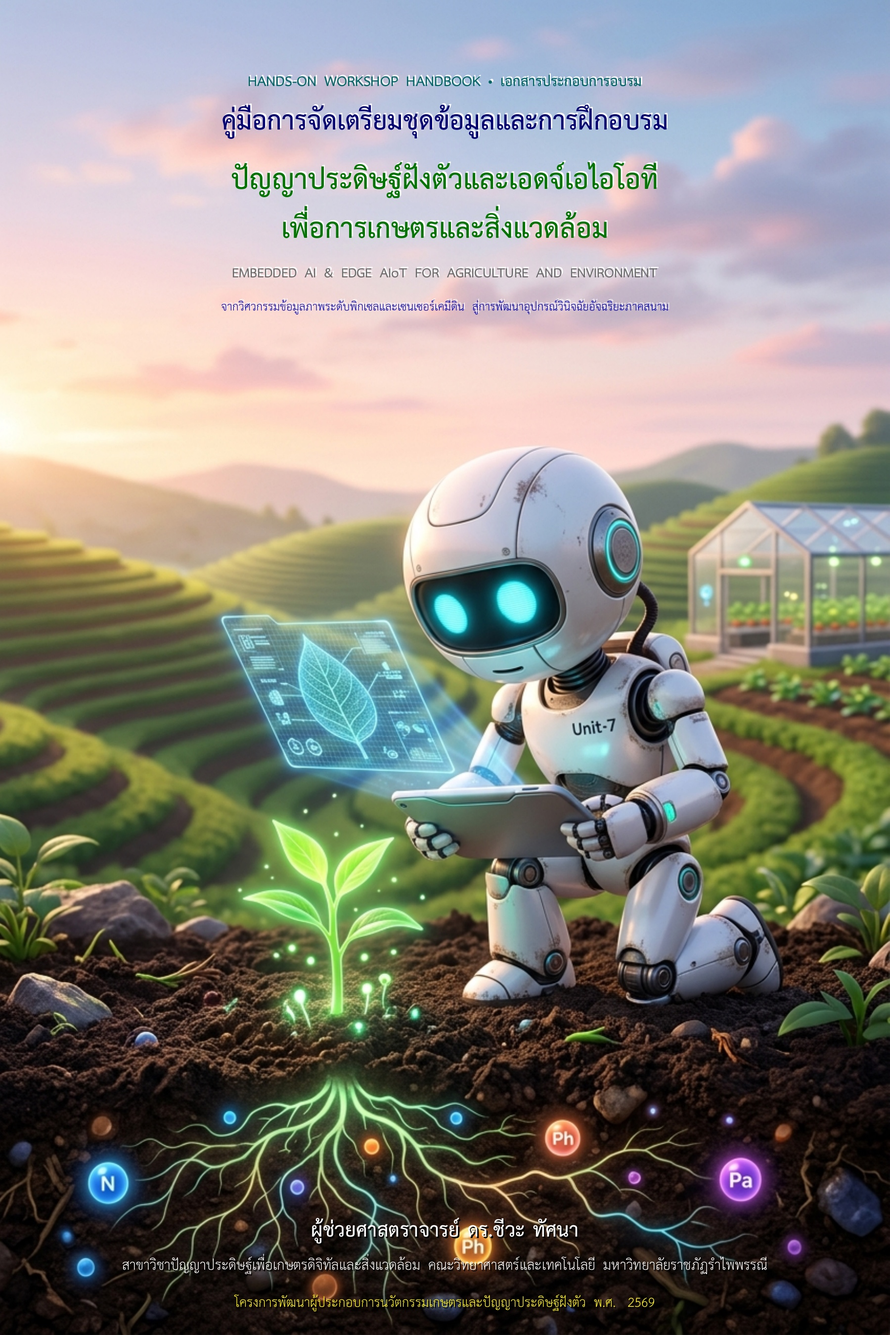
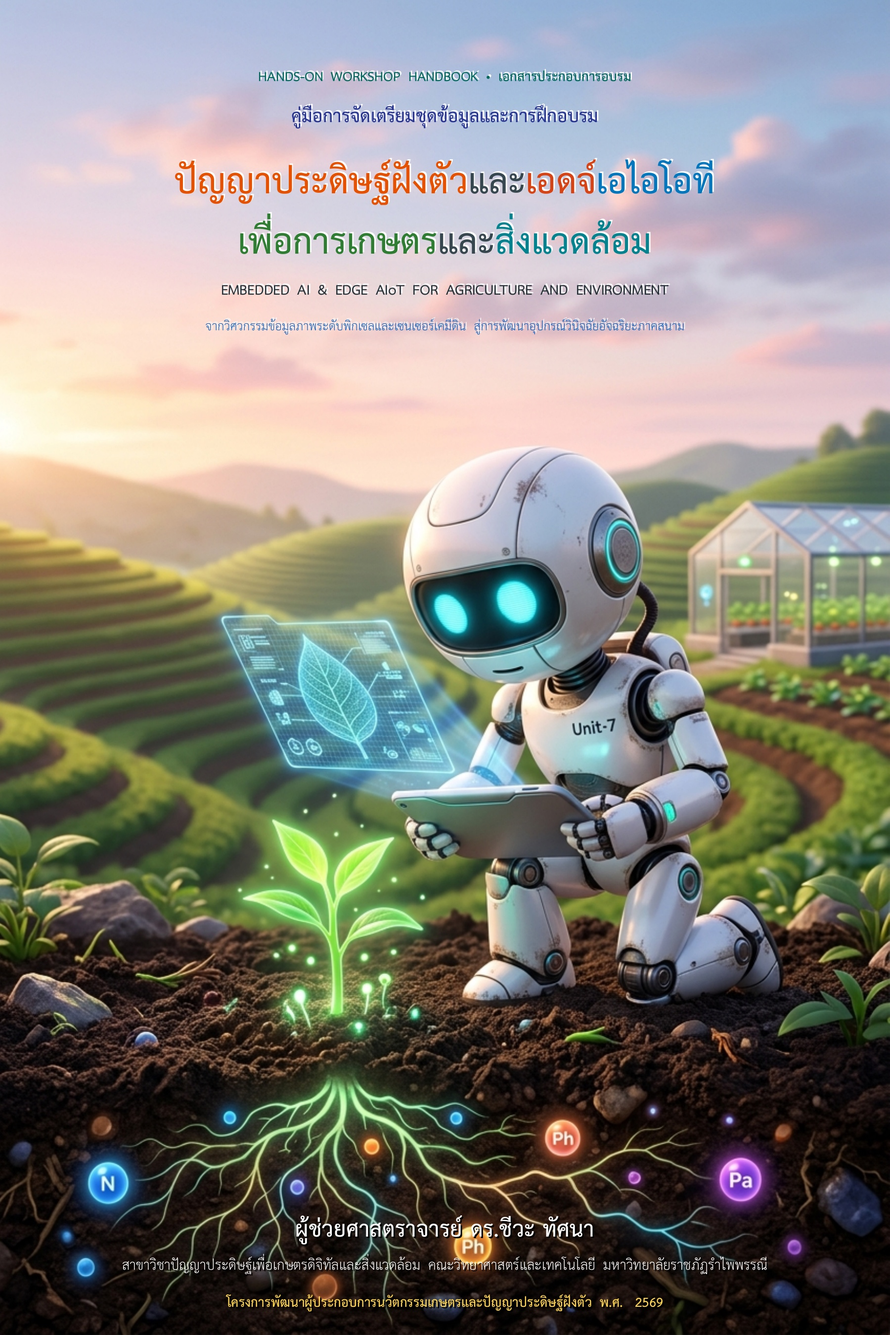
style(cover): resize series label -30%, enlarge main title with vibrant orange and multi-color palette, and balance typography proportions

diff --git a/latex_handbook/frontmatter/cover.tex b/latex_handbook/frontmatter/cover.tex
@@ -14,35 +14,38 @@
     };
 
     % 2. ข้อความชื่อเรื่องด้านบน (โปร่งใส ไม่มีกล่อง/พื้นหลัง พร้อมเงาเรืองแสงสีขาวเพื่อความคมชัด)
-    % ชั้นเงาสีขาวบางๆ ช่วยให้อ่านง่ายบนท้องฟ้าธรรมชาติ
-    \node[anchor=north, align=center, text width=5.2in] at ([xshift=0.6pt, yshift=-0.44in]current page.north) {
-        {\fontsize{8.5}{11}\selectfont\bfseries\color{white} HANDS-ON WORKSHOP HANDBOOK \textbullet\ เอกสารประกอบการอบรม}\\[7pt]
-        {\fontsize{16}{20}\selectfont\bfseries\color{white} คู่มือการจัดเตรียมชุดข้อมูลและการฝึกอบรม}\\[3pt]
-        {\fontsize{17}{22}\selectfont\bfseries\color{white} ปัญญาประดิษฐ์ฝังตัวและเอดจ์เอไอโอที\\[3pt]เพื่อการเกษตรและสิ่งแวดล้อม}\\[5pt]
-        {\fontsize{8}{10.5}\selectfont\bfseries\color{white} EMBEDDED AI \& EDGE AIoT FOR AGRICULTURE AND ENVIRONMENT}\\[2pt]
-        {\fontsize{7}{9}\selectfont\color{white!90} จากวิศวกรรมข้อมูลภาพระดับพิกเซลและเซนเซอร์เคมีดิน สู่การพัฒนาอุปกรณ์วินิจฉัยอัจฉริยะภาคสนาม}
+    % ชั้นเงาสีขาวบางๆ ช่วยให้อ่านง่ายบนท้องฟ้าธรรมชาติ (Shift 0.7pt)
+    \node[anchor=north, align=center, text width=5.3in] at ([xshift=0.7pt, yshift=-0.41in]current page.north) {
+        {\fontsize{8}{10.5}\selectfont\bfseries\color{white} HANDS-ON WORKSHOP HANDBOOK \textbullet\ เอกสารประกอบการอบรม}\\[6pt]
+        {\fontsize{11}{14}\selectfont\bfseries\color{white} คู่มือการจัดเตรียมชุดข้อมูลและการฝึกอบรม}\\[4pt]
+        {\fontsize{21.5}{26}\selectfont\bfseries\color{white} ปัญญาประดิษฐ์ฝังตัวและเอดจ์เอไอโอที\\[3pt]เพื่อการเกษตรและสิ่งแวดล้อม}\\[6pt]
+        {\fontsize{8.5}{11}\selectfont\bfseries\color{white} EMBEDDED AI \& EDGE AIoT FOR AGRICULTURE AND ENVIRONMENT}\\[3pt]
+        {\fontsize{7.5}{9.5}\selectfont\color{white} จากวิศวกรรมข้อมูลภาพระดับพิกเซลและเซนเซอร์เคมีดิน สู่การพัฒนาอุปกรณ์วินิจฉัยอัจฉริยะภาคสนาม}
     };
-    % ชั้นตัวอักษรจริง (สีน้ำเงินเข้มและสีเขียวมรกต)
-    \node[anchor=north, align=center, text width=5.2in] at ([yshift=-0.45in]current page.north) {
-        {\fontsize{8.5}{11}\selectfont\bfseries\color{teal!80!black} HANDS-ON WORKSHOP HANDBOOK \textbullet\ เอกสารประกอบการอบรม}\\[7pt]
-        {\fontsize{16}{20}\selectfont\bfseries\color{blue!45!black} คู่มือการจัดเตรียมชุดข้อมูลและการฝึกอบรม}\\[3pt]
-        {\fontsize{17}{22}\selectfont\bfseries\color{green!45!black} ปัญญาประดิษฐ์ฝังตัวและเอดจ์เอไอโอที\\[3pt]เพื่อการเกษตรและสิ่งแวดล้อม}\\[5pt]
-        {\fontsize{8}{10.5}\selectfont\bfseries\color{gray!85!black} EMBEDDED AI \& EDGE AIoT FOR AGRICULTURE AND ENVIRONMENT}\\[2pt]
-        {\fontsize{7}{9}\selectfont\color{blue!70!black} จากวิศวกรรมข้อมูลภาพระดับพิกเซลและเซนเซอร์เคมีดิน สู่การพัฒนาอุปกรณ์วินิจฉัยอัจฉริยะภาคสนาม}
+    % ชั้นตัวอักษรจริง (สีส้มสดใส และหลากสี สอดคล้องตามอัตลักษณ์เกษตรและสิ่งแวดล้อม)
+    \node[anchor=north, align=center, text width=5.3in] at ([yshift=-0.42in]current page.north) {
+        {\fontsize{8}{10.5}\selectfont\bfseries\color[HTML]{00695C} HANDS-ON WORKSHOP HANDBOOK \textbullet\ เอกสารประกอบการอบรม}\\[6pt]
+        {\fontsize{11}{14}\selectfont\bfseries\color[HTML]{283593} คู่มือการจัดเตรียมชุดข้อมูลและการฝึกอบรม}\\[4pt]
+        {\fontsize{21.5}{26}\selectfont\bfseries
+            {\color[HTML]{E65100}ปัญญาประดิษฐ์ฝังตัว}{\color[HTML]{37474F}และ}{\color[HTML]{D84315}เอดจ์}{\color[HTML]{0277BD}เอไอโอที}\\[3pt]
+            {\color[HTML]{2E7D32}เพื่อการเกษตร}{\color[HTML]{37474F}และ}{\color[HTML]{00838F}สิ่งแวดล้อม}
+        }\\[6pt]
+        {\fontsize{8.5}{11}\selectfont\bfseries\color[HTML]{263238} EMBEDDED AI \& EDGE AIoT FOR AGRICULTURE AND ENVIRONMENT}\\[3pt]
+        {\fontsize{7.5}{9.5}\selectfont\color[HTML]{1565C0} จากวิศวกรรมข้อมูลภาพระดับพิกเซลและเซนเซอร์เคมีดิน สู่การพัฒนาอุปกรณ์วินิจฉัยอัจฉริยะภาคสนาม}
     };
 
     % 3. ข้อความข้อมูลผู้แต่งด้านล่าง (โปร่งใส ไม่มีกล่อง/พื้นหลัง วางที่ขอบล่างของผืนดิน)
     % ชั้นเงาดำช่วยขับให้อ่านชัดเจนแม้ทับซ้อนแนวแสง
-    \node[anchor=south, align=center, text width=5.2in] at ([xshift=0.6pt, yshift=0.09in]current page.south) {
-        {\fontsize{12}{15}\selectfont\bfseries\color{black} ผู้ช่วยศาสตราจารย์ ดร.ชีวะ ทัศนา}\\[2pt]
+    \node[anchor=south, align=center, text width=5.3in] at ([xshift=0.7pt, yshift=0.09in]current page.south) {
+        {\fontsize{13.5}{17}\selectfont\bfseries\color{black} ผู้ช่วยศาสตราจารย์ ดร.ชีวะ ทัศนา}\\[2pt]
         {\fontsize{8.5}{11}\selectfont\color{black} สาขาวิชาปัญญาประดิษฐ์เพื่อเกษตรดิจิทัลและสิ่งแวดล้อม คณะวิทยาศาสตร์และเทคโนโลยี มหาวิทยาลัยราชภัฏรำไพพรรณี}\\[4pt]
-        {\fontsize{8}{10}\selectfont\color{black} โครงการพัฒนาผู้ประกอบการนวัตกรรมเกษตรและปัญญาประดิษฐ์ฝังตัว พ.ศ. 2569}
+        {\fontsize{8}{10}\selectfont\bfseries\color{black} โครงการพัฒนาผู้ประกอบการนวัตกรรมเกษตรและปัญญาประดิษฐ์ฝังตัว พ.ศ. 2569}
     };
-    % ชั้นตัวอักษรจริงสีขาวสว่าง
-    \node[anchor=south, align=center, text width=5.2in] at ([yshift=0.10in]current page.south) {
-        {\fontsize{12}{15}\selectfont\bfseries\color{white} ผู้ช่วยศาสตราจารย์ ดร.ชีวะ ทัศนา}\\[2pt]
+    % ชั้นตัวอักษรจริงสีขาวสว่าง พร้อมไฮไลท์ทอง
+    \node[anchor=south, align=center, text width=5.3in] at ([yshift=0.10in]current page.south) {
+        {\fontsize{13.5}{17}\selectfont\bfseries\color{white} ผู้ช่วยศาสตราจารย์ ดร.ชีวะ ทัศนา}\\[2pt]
         {\fontsize{8.5}{11}\selectfont\color{white!95} สาขาวิชาปัญญาประดิษฐ์เพื่อเกษตรดิจิทัลและสิ่งแวดล้อม คณะวิทยาศาสตร์และเทคโนโลยี มหาวิทยาลัยราชภัฏรำไพพรรณี}\\[4pt]
-        {\fontsize{8}{10}\selectfont\color{yellow!90!white} โครงการพัฒนาผู้ประกอบการนวัตกรรมเกษตรและปัญญาประดิษฐ์ฝังตัว พ.ศ. 2569}
+        {\fontsize{8}{10}\selectfont\bfseries\color[HTML]{FFD54F} โครงการพัฒนาผู้ประกอบการนวัตกรรมเกษตรและปัญญาประดิษฐ์ฝังตัว พ.ศ. 2569}
     };
 \end{tikzpicture}
 

diff --git a/latex_handbook/frontmatter/titlepage.tex b/latex_handbook/frontmatter/titlepage.tex
@@ -17,13 +17,14 @@ EMBEDDED AI \& EDGE AIoT \enspace / \enspace PRECISION AGRICULTURE}
 \vspace{0.12in}
 {\color{green!45!yellow}\rule{0.78in}{1.2pt}}
 
-\vspace{0.16in}
-{\fontsize{13}{17}\selectfont\bfseries
+\vspace{0.14in}
+{\fontsize{9.5}{13}\selectfont\bfseries\color{white!80}
 คู่มือการจัดเตรียมชุดข้อมูลและการฝึกอบรม}
 
-\vspace{0.03in}
-{\fontsize{19}{24}\selectfont\bfseries
-ปัญญาประดิษฐ์ฝังตัวและเอดจ์เอไอโอที\\[-0.03in]เพื่อการเกษตรและสิ่งแวดล้อม}
+\vspace{0.04in}
+{\fontsize{21}{26}\selectfont\bfseries
+{\color[HTML]{FF9800}ปัญญาประดิษฐ์ฝังตัว}{\color{white!85}และ}{\color[HTML]{FF7043}เอดจ์}{\color[HTML]{4FC3F7}เอไอโอที}\\[-0.01in]
+{\color[HTML]{81C784}เพื่อการเกษตร}{\color{white!85}และ}{\color[HTML]{4DD0E1}สิ่งแวดล้อม}}
 
 \vspace{0.07in}
 {\fontsize{8.5}{11}\selectfont\color{white!80}
